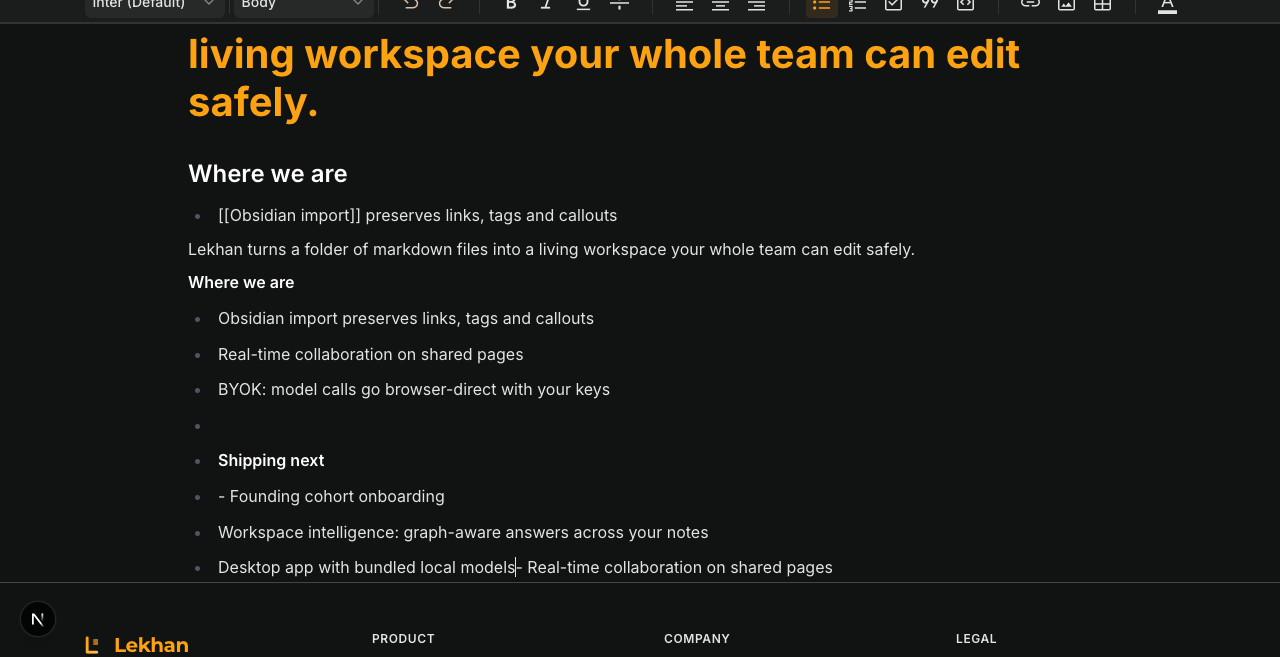
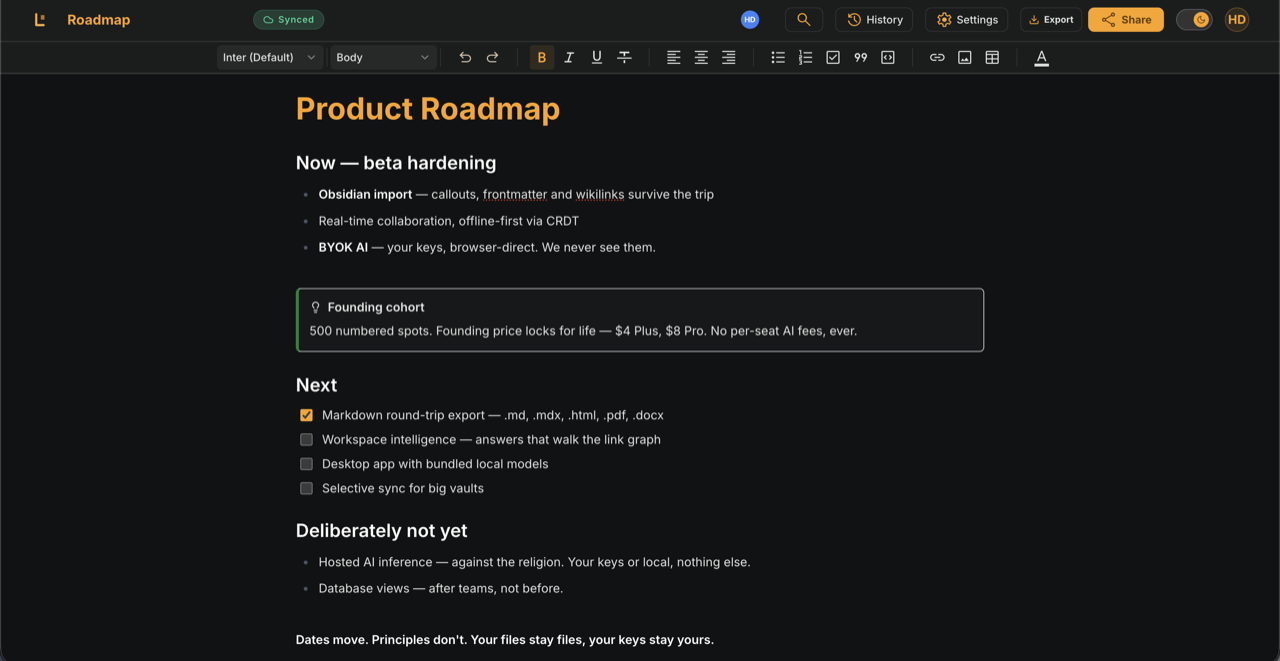
feat(early): final editor screenshot (dark); soften callout border on dark
Callout border was a hardcoded light-gray (#d0d7de) that read sharp
against dark surfaces — now translucent grey that adapts to both
themes. Screenshot: 3360px retina capture downsampled to 1280w.

diff --git a/app/globals.css b/app/globals.css
@@ -471,7 +471,7 @@ ul[data-type="taskList"] li>div {
 
 /* Tiptap Callout Styles */
 .callout {
-	border: 1px solid var(--callout-border, #d0d7de);
+	border: 1px solid var(--callout-border, rgba(127, 127, 127, 0.28));
 	border-left: 4px solid var(--callout-accent, #57606a);
 	border-radius: 6px;
 	padding: 10px 14px;

diff --git a/app/early/page.tsx b/app/early/page.tsx
@@ -39,7 +39,7 @@ const SHOTS = [
 		alt: 'Lekhan editor showing a product roadmap page with headings, a tip callout and a task list',
 		caption: 'Callouts, task lists and markdown render as you type.',
 		width: 1280,
-		height: 800,
+		height: 661,
 	},
 	{
 		src: '/early/shot-import.png',
